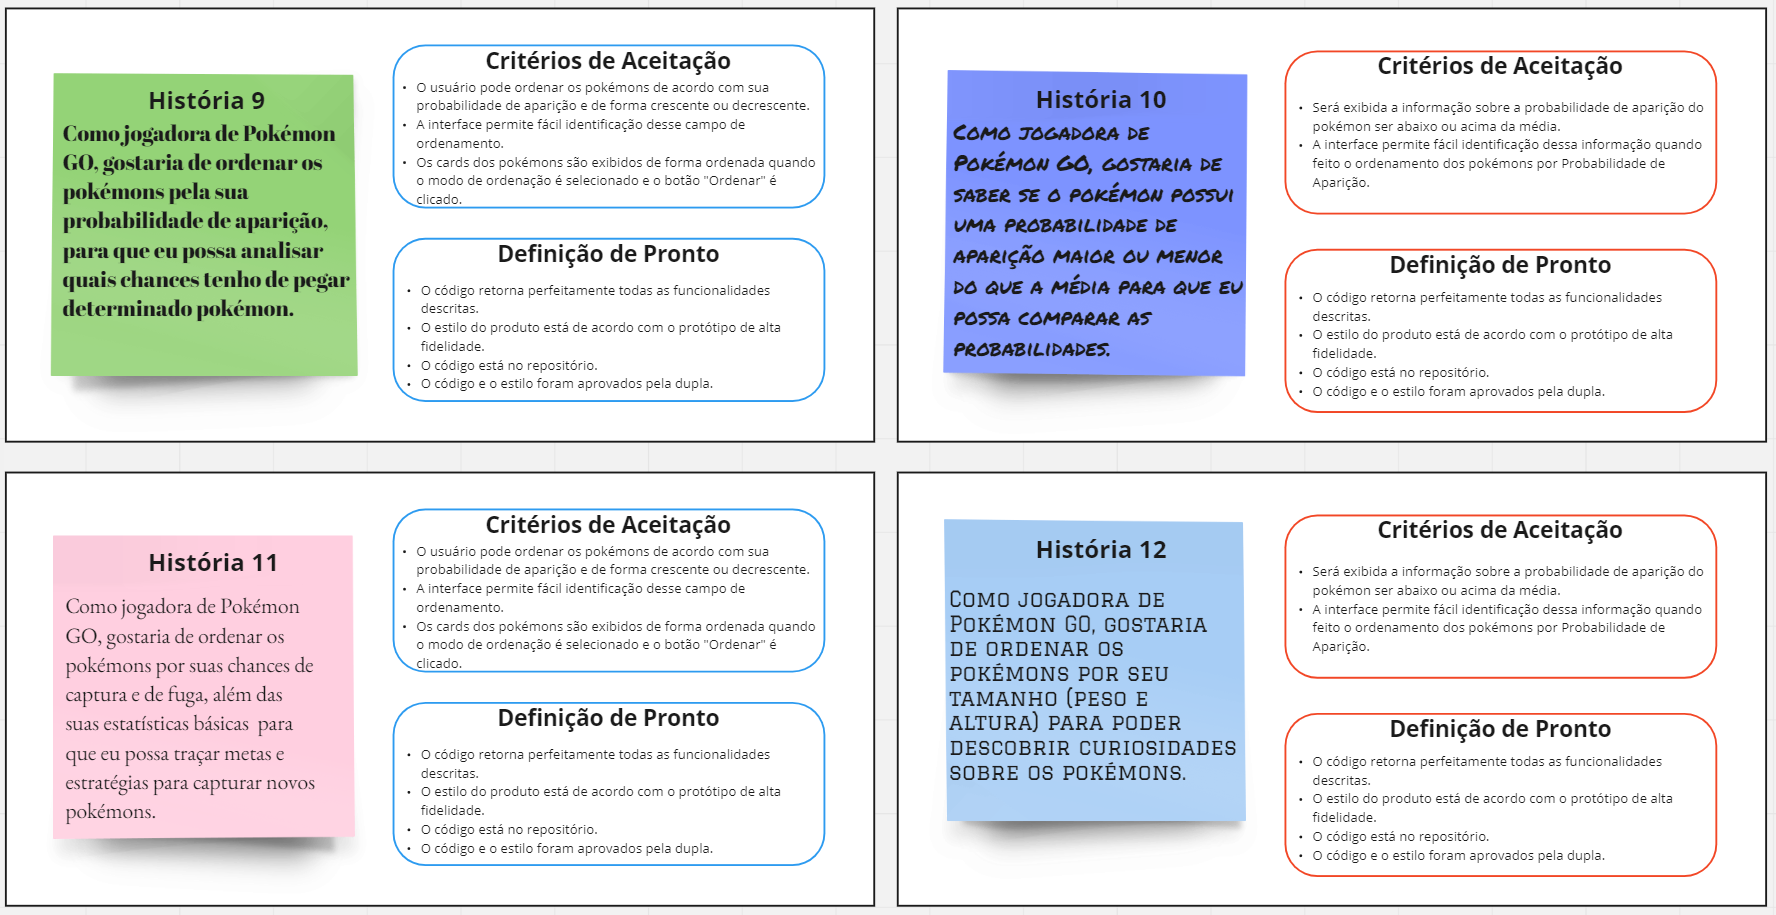
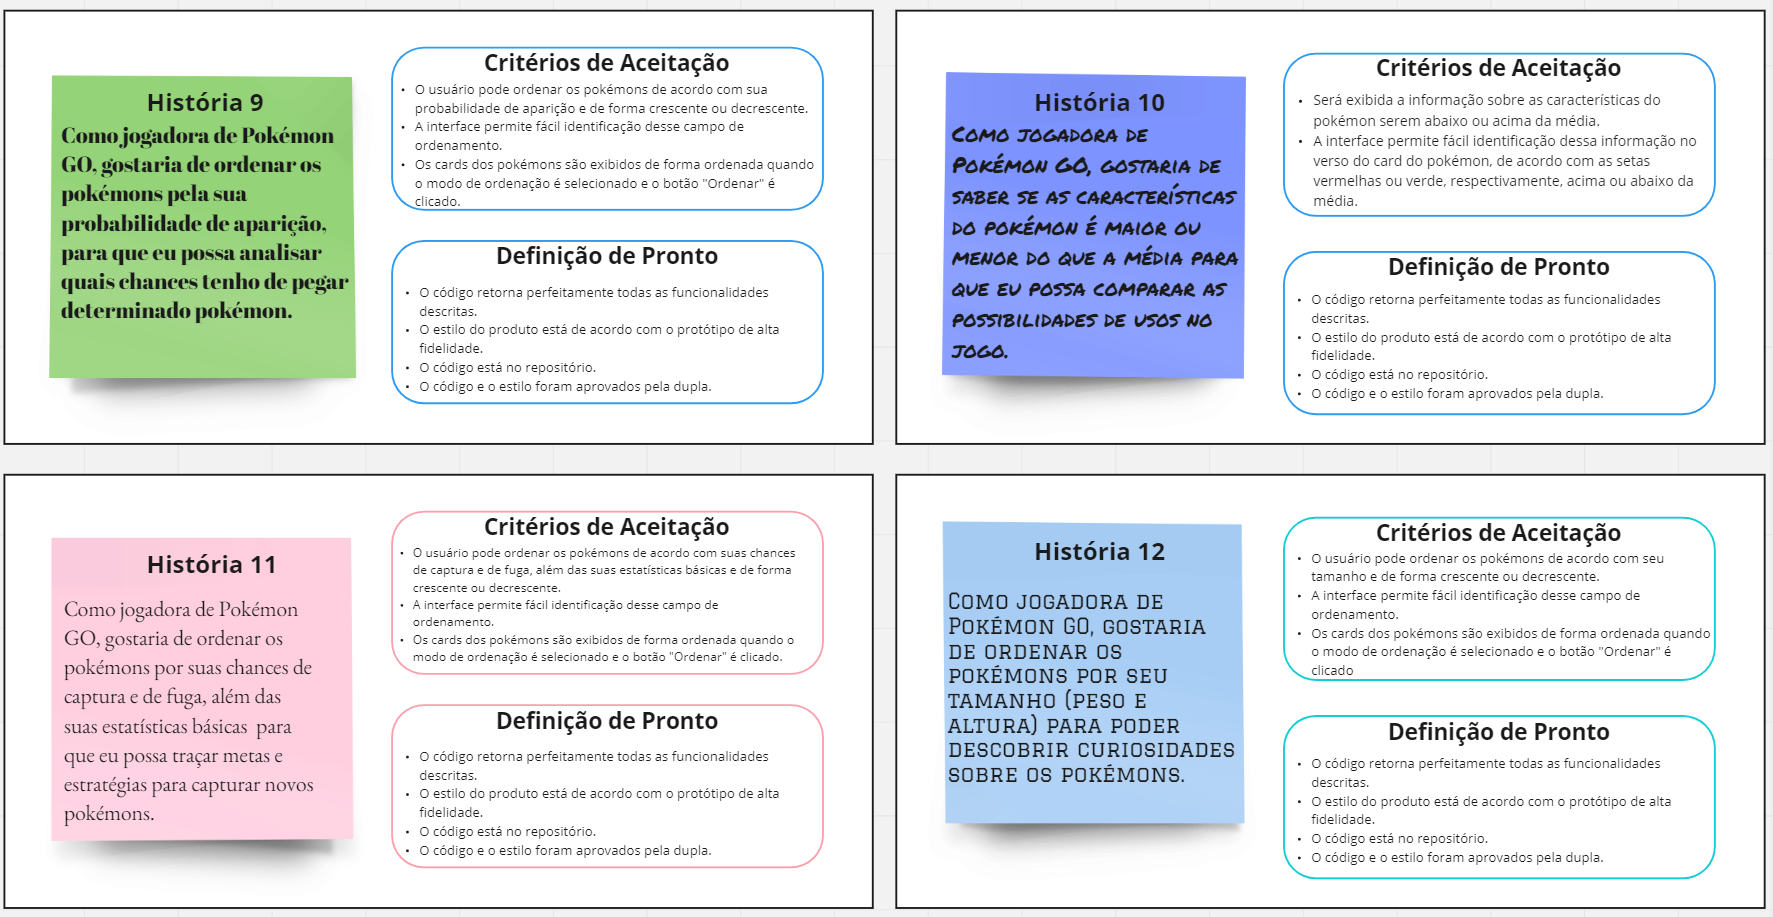
Alterações em histórias dos usuários

diff --git a/README.md b/README.md
@@ -19,11 +19,11 @@
 ---
 ## :dart: Definição do Produto
 
-O [PokeLovers](...) foi desenvolvido com o objetivo de auxiliar os jogadores de PokémonGo a terem uma melhor experiência no dentro do jogo. Para isso, esta aplicação tem a missão de prover informações aos usuários de forma dinâmica e divertida para que estas sejam utilizadas estrategicamente na jogabilidade.
+O [PokeLovers](...) foi desenvolvido com o objetivo de auxiliar os jogadores de PokémonGo a terem uma melhor experiência dentro do jogo. Para isso, esta aplicação tem a missão de prover informações aos usuários de forma dinâmica e divertida para que estas sejam utilizadas estrategicamente na jogabilidade.
 
 O layout do site representa a interação com uma verdadeira Pokédex (também conhecida como Poké-Agenda no Brasil) que é uma enciclopédia virtual portátil de alta tecnologia que os treinadores Pokémon transportam para registrar todas as espécies diferentes que são encontradas durante as suas aventuras. 
 
-O seu design é responsivo para desktop, mobile (365px) e tablet (768px), o que proporcional a versatilidade desejada pelos usuários. A sua idealização foi feita a partir de protótipos de baixa e de alta fidelidade que nortearam a construção do site de acordo com as necessidades dos clientes. Nele, é possível buscar os Pokémons pelos seus nomes, filtrá-los por tipo, geração, resistências, fraquezas, distância do candy, além de poder ordená-los por raridade, distância dos ovos, probabilidade de aparição, ordem alfabética, chance de captura, chance de fuga,  tamanho (peso e altura) e estatísticas (ataque, defesa, stamina, poder de combate e pontos de vida). Existe também um campo de Busca Avançada onde o usuário pode realizar a filtragem integrada dos atributos, ou seja, com a verificação de diversos parâmetros. Em sua interface, também são disponibilizadas as informações de cada Pokémon no verso de seus cards (basta passar o mouse por cima do Pokémon), tais como tamanho (peso e altura), estatísticas (ataque, defesa, stamina, poder de combate e pontos de vida), resistências, fraquezas e geração. Ao lado esquerdo desses cards, similarmente, existe um botão de interrogação que dá acesso a um pop-up com melhores explicações sobre as informações ditas anteriormente para auxilar àqueles usuários iniciantes.
+O seu design é responsivo para desktop, mobile (365px) e tablet (768px), o que proporcional a versatilidade desejada pelos usuários. A sua idealização foi feita a partir de protótipos de baixa e de alta fidelidade que nortearam a construção do site de acordo com as necessidades dos clientes. Nele, é possível buscar os Pokémons pelos seus nomes, filtrá-los por tipo, geração, resistências, fraquezas, distância do candy, além de poder ordená-los por raridade, distância dos ovos, probabilidade de aparição, ordem alfabética, chance de captura, chance de fuga,  tamanho (peso e altura) e estatísticas (ataque, defesa, stamina, poder de combate e pontos de vida). Existe também um campo de "Busca Avançada" onde o usuário pode realizar a filtragem integrada dos atributos com a verificação de diversos parâmetros. Em sua interface, também são disponibilizadas as informações de cada Pokémon no verso de seus cards (basta passar o mouse por cima do Pokémon), tais como tamanho, estatísticas, resistências, fraquezas e geração. Ao lado esquerdo desses cards, similarmente, existe um botão de interrogação que dá acesso a um pop-up com melhores explicações sobre as informações ditas anteriormente para auxilar àqueles usuários iniciantes.
 
 Por fim, desejamos que nosso produto proporcione uma incrível experiência dentro do universo Pokémon! :green_heart:
 
@@ -58,10 +58,10 @@ Por fim, desejamos que nosso produto proporcione uma incrível experiência dent
 ### Na Pokedéx:
 - O usuário é capaz de filtrar um Pokémon pelo seu respectivo nome no campo "Busque por um Pokémon"; 
 - É possível ordenar os cards em ordem crescente ou decrescente para os atributos de **Nome**, **Raridade**, **Distância dos Ovos**, **Probabilidade de Aparição**, **Chance de Captura**, **Chance de Fuga**,  **Tamanho e Estatísticas**; 
-- A filtragem dos cards é independente da ordenção e os Pokemons podem ser selecionados de acordo com o seus **tipos**, **fraquezas**, **resistências** e **distância do candy**. É importante ressaltar que esses filtros são independentes entre si.
-- No campo de "Busca Avançada", é possível fazer a filtragem de forma integrada das gerações, tipos, resistências e fraquezas.
-- Ao passar o mouse em cima dos cards, os mesmos irão girar e informações adicionais serão exibidas. Quando isso ocorre, o usuário pode visualizar o **peso** e **altura** dos Pokémons, bem como as suas estatísticas **ataque-base**, **defesa-base**, **stamina-base**, **pontos de vida** e **força de combate**. Além disso, dados relativos as fraquezas, resistências e geração do indivíduo também poderão ser visualizadas; 
-- À esquerda da tela, existe um botão de "Informações" para acessar detalhes das informações exibidas na tela. 
+- A filtragem dos cards é independente da ordenação e os Pokemons podem ser selecionados de acordo com o seus **tipos**, **fraquezas**, **resistências** e **distância do candy**. É importante ressaltar que esses filtros são independentes entre si.
+- No campo de "Busca Avançada", é possível fazer a filtragem de forma integrada e dinâmica das gerações, tipos, resistências e fraquezas.
+- Ao passar o mouse em cima dos cards, os mesmos irão girar e informações adicionais serão exibidas. Quando isso ocorre, o usuário pode visualizar o **peso** e **altura** dos Pokémons, bem como as suas estatísticas **ataque-base**, **defesa-base**, **stamina-base**, **pontos de vida** e **força de combate**. Dados relativos as fraquezas, resistências e geração do indivíduo também poderão ser visualizadas e, além disso, são exibidas setas verdes ou vermelhas que informam, respectivamente, se tal informação do Pokémon está acima ou abaixo da média geral;
+- À esquerda da tela, existe um botão de "Informações" para acessar detalhes dos termos exibidos na página. 
 
 ---
 ## :link: Links para saber mais sobre Pokémons
@@ -70,10 +70,10 @@ Por fim, desejamos que nosso produto proporcione uma incrível experiência dent
 
 ---
 ## :busts_in_silhouette: Testes de Usabilidade
-Durante o desenvolvimento do produto, foram realizados testes de usabilidade com diferentes usuários diferentes com o intuito analisa a experiência do usuário com a interface do site. Com base nos resultados desses testes, foram detectados os seguintes pontos de ajustes:
+Durante o desenvolvimento do produto, foram realizados testes de usabilidade com diferentes indivíduos no intuito de analisar a experiência do usuário com a interface do site. Com base nos resultados desses testes, foram detectados os seguintes pontos de ajustes:
 
 - Usuário gostaria de entender mais sobre os termos utilizados para descrever os Pokémons
-- Filtros múltiplos que integrem informações 
+- Desejo por filtros múltiplos que integrem informações 
 
 Para a resolução dessas questões, foram implementados os campos de "Informações" e de "Busca Avançada" descritos anteriormente.
 
